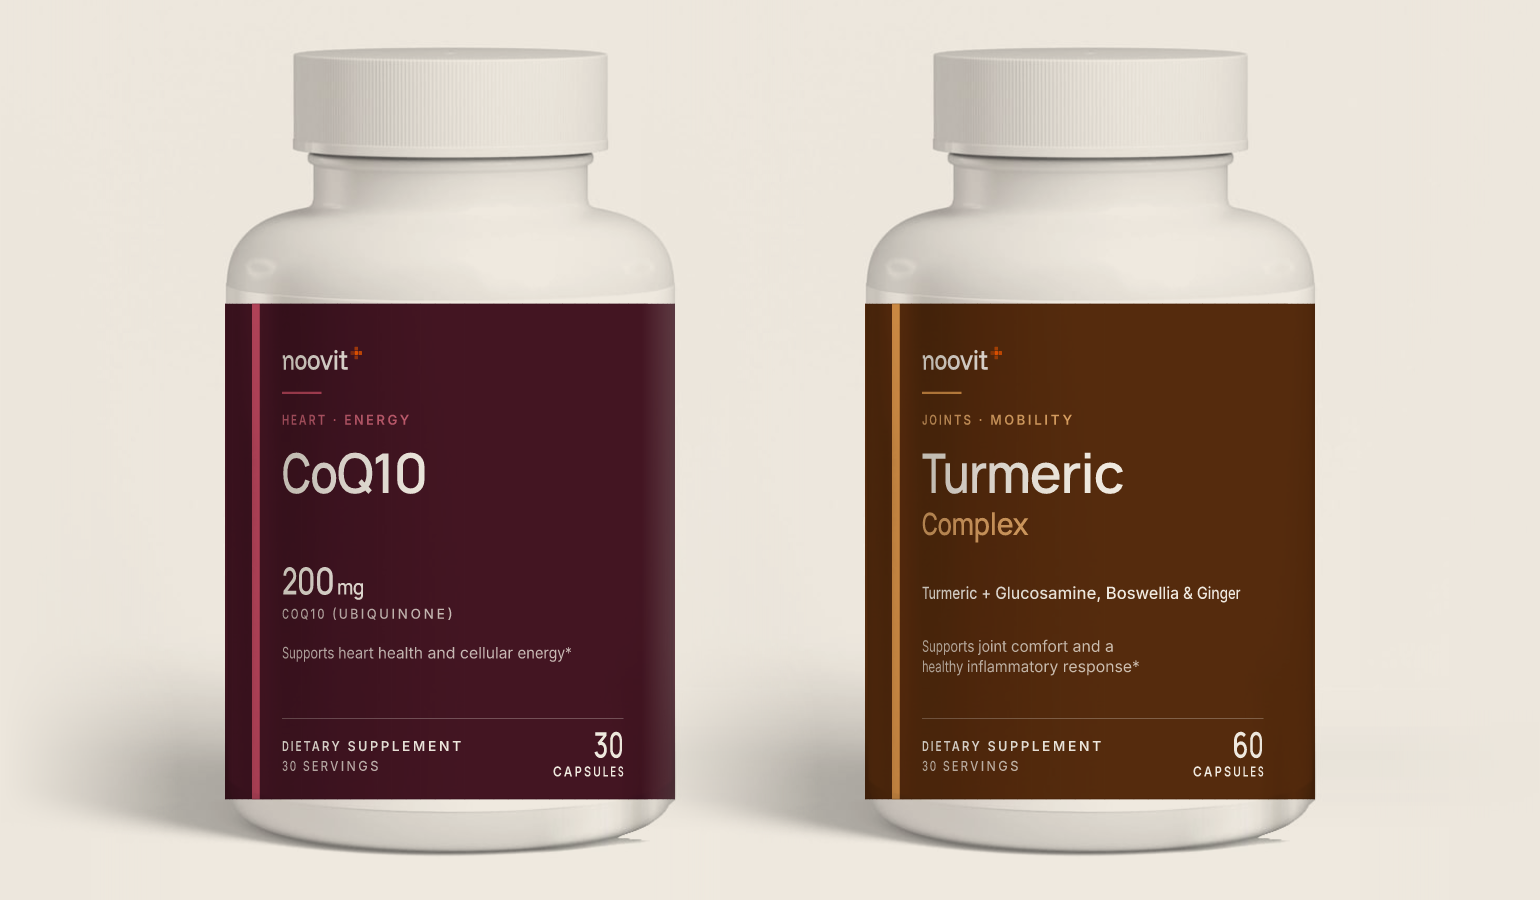
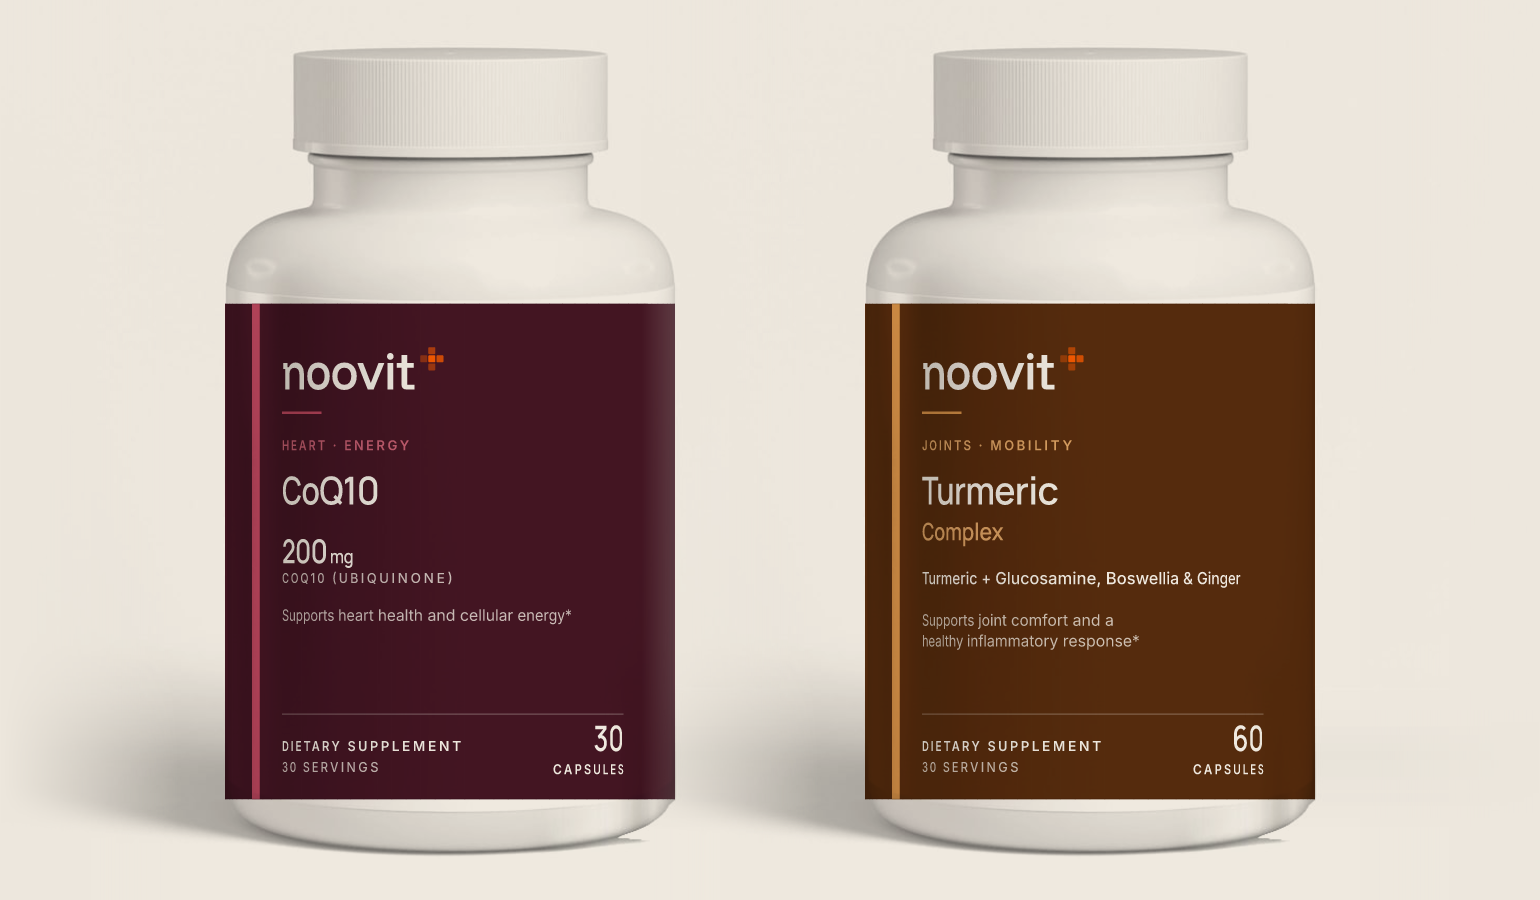
Elegant label: wordmark 24 (brand leads), name 30% smaller, spacing computed from cap heights
Claude-Session: https://claude.ai/code/session_01AgHwmMXyw3TzvCrzNnVa8R

diff --git a/lib/labels/svg.ts b/lib/labels/svg.ts
@@ -608,7 +608,10 @@ export function frontPanelClinical(p: Product, mode: FontMode, bleed = 0, opts: 
 export const elegantPaper = (col: string) => hueShiftDarken(col, 6, 0.5);
 
 export function frontPanelElegant(p: Product, mode: FontMode, bleed = 0, opts: { align?: 'center' | 'left'; color?: string; tone?: 'light' | 'dark'; logo?: number } = {}) {
-  const logo = opts.logo ?? 15.6; // wordmark size (label units); 20% above the first draft's 13 (14 Nov)
+  // 14 Nov (owner): the brand leads. Wordmark 24 (about 1.5x the 15.6 draft, ~38% of the panel width), product name
+  // 30% smaller (max 17.5, was 25). Vertical positions are computed from each element's cap height with one gap, so the
+  // spacing between sections is the same on every product, whatever lines it has.
+  const logo = opts.logo ?? 24;
   const align = opts.align ?? 'center';
   const col = opts.color ?? p.color;
   // 'dark' (14 Nov): the whole label in a deep shade of the product colour, white type, a brighter colour edge.
@@ -633,35 +636,63 @@ export function frontPanelElegant(p: Product, mode: FontMode, bleed = 0, opts: {
   const x0 = center ? FRONT.w / 2 : 24; // left edge sits clear of the colour edge in E2
   const anchor = center ? 'middle' : 'start';
   const room = FRONT.w - (center ? 40 : 46);
-  const size = Math.min(25, room / (main.length * 0.54));
   const caps = (y: number, t: string, sz: number, fill: string, weight = 500, x = x0, a = anchor) =>
     `<text x="${n(x)}" y="${n(y)}" text-anchor="${a}" font-size="${sz}" font-weight="${weight}" letter-spacing="${n(sz * 0.2)}" fill="${fill}" ${font('body', mode)}>${esc(t.toUpperCase())}</text>`;
   const doseLine = V2_DOSE_LINES[p.slug] ?? dose?.line ?? '';
-  const nameY = 86;
-  const descY = nameY + 19;
-  const doseY = descriptor ? 140 : 132;
-  const benefitLines = balance(wrap(p.shortBenefit.replace(/\.$/, '') + '*', room - 10, 7.2, 0.5).slice(0, 2));
-  const doseBlock = dose
-    ? `<text x="${n(x0)}" y="${doseY}" text-anchor="${anchor}" font-size="17" font-weight="500" letter-spacing="-0.3" fill="${ink}" ${font('head', mode)}>${esc(dose.value)}<tspan font-size="9.5" font-weight="500" dx="1.4">${esc(dose.unit)}</tspan></text>
-      ${caps(doseY + 11, doseLine, 6.2, inkSoft)}`
-    : textBlock(balance(wrap(labelSubtitle(p), room, 7.6, 0.5).slice(0, 2)), x0, doseY - 6, 7.6, 9.6, `text-anchor="${anchor}" font-weight="500" fill="${ink}" ${font('body', mode)}`);
-  const benY = doseY + (dose ? 29 : 18);
-  const ruleY = 188;
+
+  // Type sizes.
+  const nameSize = Math.min(17.5, room / (main.length * 0.54));
+  const descSize = 11;
+  const doseSize = 15;
+  const capsSize = 6.2;
+  const benSize = 7.2, benLead = 9.4;
+  const CAP = 0.72, DESC = 0.22; // cap height and descender as a share of the font size (Manrope / Inter)
+  const GAP = 12; // between sections: from the bottom of one to the cap top of the next
+  const TIGHT = 4.5; // inside a section (name + descriptor, dose + its caption)
+
+  // Vertical rhythm, top to bottom. Each baseline = previous bottom + gap + this element's cap height.
+  const logoY = 39; // the cross tops out at logoY - 0.8 * logo (about 20 units from the top edge)
+  const ruleTop = logoY + 10;
+  let bottom = ruleTop + 1.1;
+  const place = (capH: number, gap: number, descent = 0) => { const y = bottom + gap + capH; bottom = y + descent; return y; };
+  const catY = category ? place(capsSize * CAP, GAP) : 0;
+  const nameY = place(nameSize * CAP, GAP, nameSize * DESC);
+  const descY = descriptor ? place(descSize * CAP, TIGHT, descSize * DESC) : 0;
+  let doseBlock = '';
+  if (dose) {
+    const y = place(doseSize * CAP, GAP);
+    const yc = place(capsSize * CAP, TIGHT);
+    doseBlock = `<text x="${n(x0)}" y="${n(y)}" text-anchor="${anchor}" font-size="${doseSize}" font-weight="500" letter-spacing="-0.3" fill="${ink}" ${font('head', mode)}>${esc(dose.value)}<tspan font-size="8.5" font-weight="500" dx="1.3">${esc(dose.unit)}</tspan></text>
+      ${caps(yc, doseLine, capsSize, inkSoft)}`;
+  } else {
+    const lines = balance(wrap(labelSubtitle(p), room, 7.6, 0.5).slice(0, 2));
+    const y = place(7.6 * CAP, GAP);
+    bottom += (lines.length - 1) * 9.6 + 7.6 * DESC;
+    doseBlock = textBlock(lines, x0, y, 7.6, 9.6, `text-anchor="${anchor}" font-weight="500" fill="${ink}" ${font('body', mode)}`);
+  }
+  const benefitLines = balance(wrap(p.shortBenefit.replace(/\.$/, '') + '*', room - 10, benSize, 0.5).slice(0, 2));
+  const benY = place(benSize * CAP, GAP);
+  bottom += (benefitLines.length - 1) * benLead + benSize * DESC;
+
+  // Bottom zone (net quantity at legal size, 21 CFR 101.105), fixed: the count shares a baseline with "Dietary
+  // supplement" and its unit line sits below the count's descender ("281 g").
+  const ruleY = 186;
+  if (bottom > ruleY - 8) console.warn(`[labels] ${p.slug}: elegant front content ends at ${n(bottom)}, needs to end by ${ruleY - 8}`);
   return `<g>
     <rect x="0" y="${-bleed}" width="${FRONT.w}" height="${FRONT.h + bleed * 2}" fill="${paper}"/>
     ${center ? '' : `<rect x="0" y="${-bleed}" width="7" height="${FRONT.h + bleed * 2}" fill="${accent}"/>`}
-    ${center ? wordmark(x0, 30, logo, mode, ink) : wordmarkRaw(x0, 30, logo, mode, ink, ink)}
-    ${center ? `<rect x="${n(x0 - 12)}" y="40" width="24" height="1.1" fill="${accent}"/>` : `<rect x="${x0}" y="40" width="24" height="1.1" fill="${accent}"/>`}
-    ${category ? caps(55, category, 6.2, colText, 600) : ''}
-    <text x="${n(x0)}" y="${nameY}" text-anchor="${anchor}" font-size="${n(size)}" font-weight="500" letter-spacing="${n(-0.025 * size)}" fill="${ink}" ${font('head', mode)}>${esc(main)}</text>
-    ${descriptor ? `<text x="${n(x0)}" y="${descY}" text-anchor="${anchor}" font-size="14" font-weight="400" letter-spacing="-0.2" fill="${colText}" ${font('head', mode)}>${esc(descriptor)}</text>` : ''}
+    ${center ? wordmark(x0, logoY, logo, mode, ink) : wordmarkRaw(x0, logoY, logo, mode, ink, ink)}
+    <rect x="${n(center ? x0 - 12 : x0)}" y="${ruleTop}" width="24" height="1.1" fill="${accent}"/>
+    ${category ? caps(catY, category, capsSize, colText, 600) : ''}
+    <text x="${n(x0)}" y="${n(nameY)}" text-anchor="${anchor}" font-size="${n(nameSize)}" font-weight="500" letter-spacing="${n(-0.02 * nameSize)}" fill="${ink}" ${font('head', mode)}>${esc(main)}</text>
+    ${descriptor ? `<text x="${n(x0)}" y="${n(descY)}" text-anchor="${anchor}" font-size="${descSize}" font-weight="400" letter-spacing="-0.1" fill="${colText}" ${font('head', mode)}>${esc(descriptor)}</text>` : ''}
     ${doseBlock}
-    ${textBlock(benefitLines, x0, benY, 7.2, 9.2, `text-anchor="${anchor}" font-weight="400" fill="${inkSoft}" ${font('body', mode)}`)}
+    ${textBlock(benefitLines, x0, benY, benSize, benLead, `text-anchor="${anchor}" font-weight="400" fill="${inkSoft}" ${font('body', mode)}`)}
     <rect x="${center ? 20 : x0}" y="${ruleY}" width="${center ? FRONT.w - 40 : FRONT.w - x0 - 20}" height="0.5" fill="${hair}"/>
-    ${caps(203, 'Dietary supplement', 6.2, ink, 600, center ? 20 : x0, 'start')}
-    ${caps(212, `${servingsPerContainer} servings`, 6.2, inkSoft, 500, center ? 20 : x0, 'start')}
-    <text x="${FRONT.w - 20}" y="${206}" text-anchor="end" font-size="16" font-weight="500" fill="${ink}" ${font('head', mode)}>${esc(big)}</text>
-    ${caps(214.5, unitWord, 6.2, ink, 600, FRONT.w - 20, 'end')}
+    ${caps(203, 'Dietary supplement', capsSize, ink, 600, center ? 20 : x0, 'start')}
+    ${caps(212.5, `${servingsPerContainer} servings`, capsSize, inkSoft, 500, center ? 20 : x0, 'start')}
+    <text x="${FRONT.w - 20}" y="203" text-anchor="end" font-size="16" font-weight="500" fill="${ink}" ${font('head', mode)}>${esc(big)}</text>
+    ${caps(213.5, unitWord, capsSize, ink, 600, FRONT.w - 20, 'end')}
   </g>`;
 }
 
